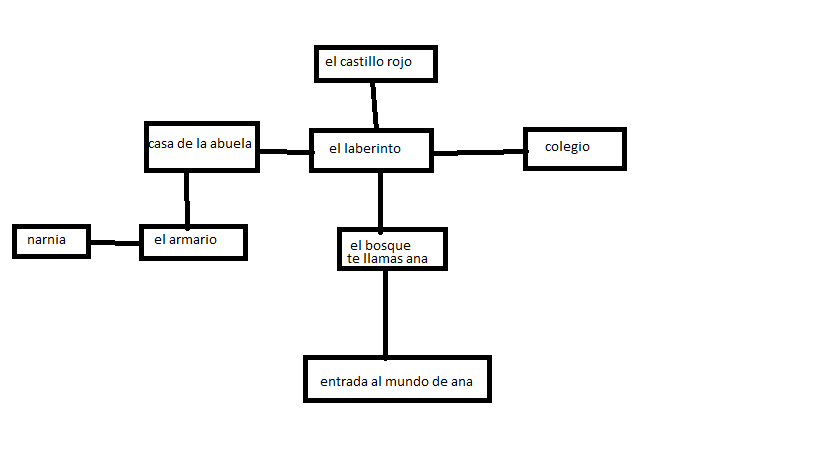
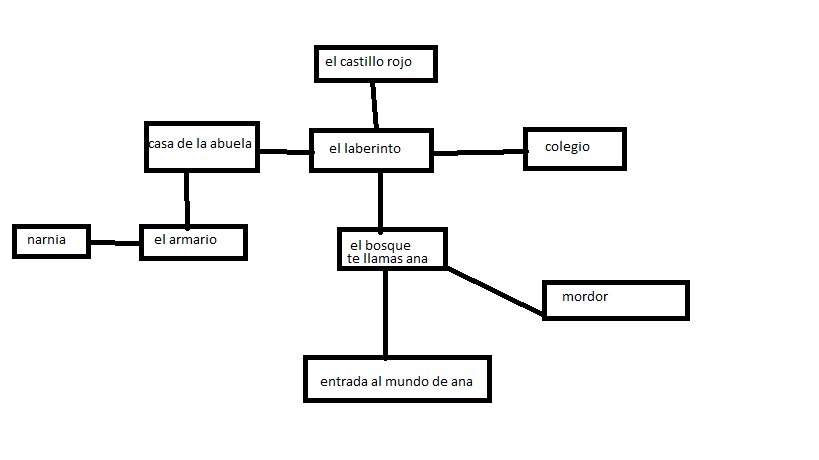
commit 04.Room y direcciones nuevas noreste y sureste

Changed region(s): [[0.6105, 0.6087, 0.8547, 0.7], [0.58, 0.6087, 0.6105, 0.6391], [0.5495, 0.5783, 0.58, 0.6087]]

diff --git a/Game.java b/Game.java
@@ -32,7 +32,7 @@ public class Game
      */
     private void createRooms()
     {
-        Room inicio, bosque, laberinto, colegio, castillo, casaAbuela, armario, narnia;        
+        Room inicio, bosque, laberinto, colegio, castillo, casaAbuela, armario, narnia, mordor;        
         // crea las habitaciones(Room)
         inicio = new Room("en la entrada al mundo de Ana");
         bosque = new Room("en el bosque te llamas Ana?");
@@ -42,24 +42,24 @@ public class Game
         casaAbuela = new Room("en la casa de la abuela que esta haciendo la tortilla de patata");
         armario = new Room("en el armario un lugar un tanto oscuro");
         narnia = new Room("en el mundo de Narnia algo no va bien");
-
+        mordor = new Room("en Mordor lugar donde viven los orcos");
         //habitaciones posibles donde esta Ana 
-        Room[] numeroRoom = {laberinto, colegio, castillo, casaAbuela, armario, narnia}; 
+        Room[] numeroRoom = {laberinto, colegio, castillo, casaAbuela, armario, narnia, mordor}; 
 
         //colocacion de Ana de manera aleatoria
         Random random = new Random();
         numeroRoom[random.nextInt(numeroRoom.length)].setEstaAna(true);
 
         // puertas de salida de las Room(norte, este ,sur, oeste )
-        inicio.setExits(bosque, null, null, null);
-        bosque.setExits(laberinto, null, inicio, null);
-        laberinto.setExits(castillo, colegio, bosque, casaAbuela);
-        colegio.setExits(null, null, null, laberinto);
-        castillo.setExits(null, null, laberinto, null);
-        casaAbuela.setExits(null,laberinto,armario, null);
-        armario.setExits(casaAbuela, null, null, narnia);
-        narnia.setExits(null, casaAbuela, null, null);
-
+        inicio.setExits(bosque, null, null, null,null,null);
+        bosque.setExits(laberinto, null, inicio, null,mordor,null);
+        laberinto.setExits(castillo, colegio, bosque, casaAbuela,null,null);
+        colegio.setExits(null, null, null, laberinto, null,null);
+        castillo.setExits(null, null, laberinto, null,null,null);
+        casaAbuela.setExits(null,laberinto,armario, null,null,null);
+        armario.setExits(casaAbuela, null, null, narnia,null,null);
+        narnia.setExits(null, casaAbuela, null, null,null,null);
+        mordor.setExits(null, null, null,null,null,bosque);
         currentRoom = inicio;  // comienza el juego afuera
     }
 
@@ -164,13 +164,18 @@ public class Game
         if(direction.equals("oeste")) {
             nextRoom = currentRoom.westExit;
         }
+        if(direction.equals("sureste")){
+            nextRoom = currentRoom.southEastExit;
+        }
+        if(direction.equals("noreste")){
+            nextRoom = currentRoom.northEastExit;
+        }
 
         if (nextRoom == null) {
             System.out.println("No hay puerta!!!");
         }
         else {
-            currentRoom = nextRoom;
-            System.out.println("Usted esta " + currentRoom.getDescription());
+            currentRoom = nextRoom;            
             printLocationInfo();
         }
     }
@@ -216,6 +221,12 @@ public class Game
             }
             if(currentRoom.westExit != null) {
                 System.out.print("oeste ");
+            }
+            if(currentRoom.southEastExit != null){
+                System.out.print("sureste ");
+            }
+            if(currentRoom.northEastExit != null){
+                System.out.print("noreste ");
             }
             System.out.println();
         }

diff --git a/Room.java b/Room.java
@@ -1,14 +1,14 @@
 
 /**
- * class Room: una habitación en un juego de aventuras.
+ * class Room: una habitacion en un juego de aventuras.
  *
- * Esta clase es parte de la aplicación "Buscando a Ana".
+ * Esta clase es parte de la aplicacion "Buscando a Ana".
  * "Buscando a Ana" es un juego de aventura basado en texto muy simple.
  *
- * Una "Habitación" representa una ubicación en el escenario del juego. Es
+ * Una "Habitacion" representa una ubicacion en el escenario del juego. Es
  * conectado a otras habitaciones a través de salidas. Las salidas están etiquetadas al norte,
- * este, sur, oeste. Para cada dirección, la habitación almacena una referencia
- * a la habitación vecina, o null si no hay salida en esa dirección.
+ * este, sur, oeste. Para cada direccion, la habitacion almacena una referencia
+ * a la habitacion vecina, o null si no hay salida en esa direccion.
  *
  * Esta habitacion contendra un variable booleana que especificara si ahi esta Ana. 
  * @author (garcol93) 
@@ -22,13 +22,15 @@ public class Room
     public Room southExit;
     public Room eastExit;
     public Room westExit;
+    public Room southEastExit;
+    public Room northEastExit;
 
     /**
-     * Crea una habitación que describa "descripción". Inicialmente, tiene
-     * sin salidas. "descripción" es algo así como "una cocina" o
+     * Crea una habitacion que describa "descripcion". Inicialmente, tiene
+     * sin salidas. "descripcion" es algo asi como "una cocina" o
      * "un patio abierto"
      * tendra un boolean que indica si esta Ana.
-     * @param description Descripción de la sala.
+     * @param description Descripcion de la sala.
      */
     public Room(String description) 
     {
@@ -38,13 +40,13 @@ public class Room
 
     /**
      * Definir las salidas de esta sala. Todas las direcciones conducen
-     * a otra habitación o es nulo (no hay salida allí).
+     * a otra habitacion o es nulo (no hay salida alli).
      * @param norte La salida norte.
      * @param este El este este.
      * @param sur La salida sur.
      * @param oeste La salida oeste.
      */
-    public void setExits(Room north, Room east, Room south, Room west) 
+    public void setExits(Room north, Room east, Room south, Room west, Room southEast , Room northEast) 
     {
         if(north != null)
             northExit = north;
@@ -54,6 +56,10 @@ public class Room
             southExit = south;
         if(west != null)
             westExit = west;
+        if(southEast !=null)
+            southEastExit = southEast;
+        if(northEast !=null)
+        northEastExit = northEast;
     }
 
     /**
